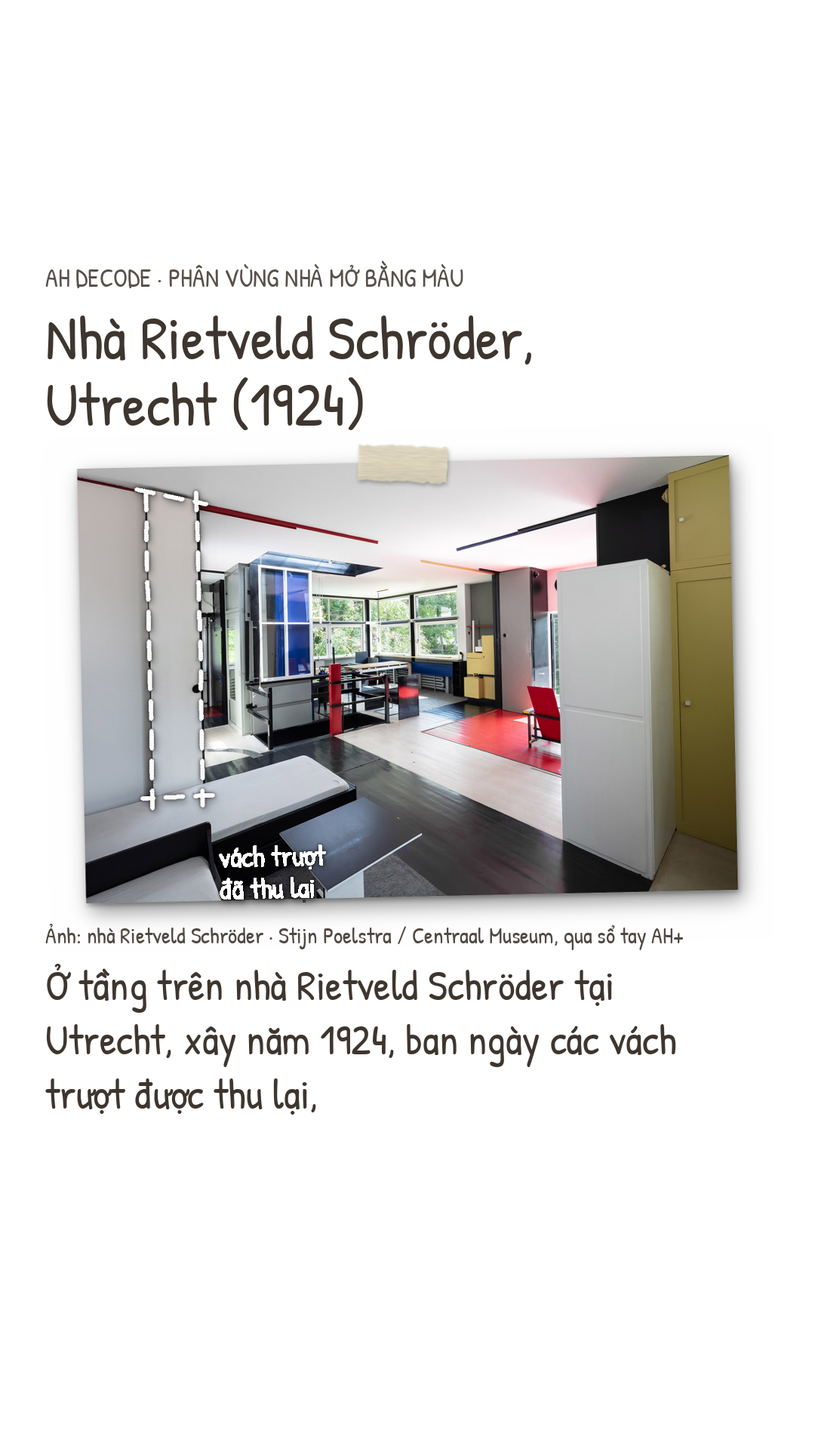
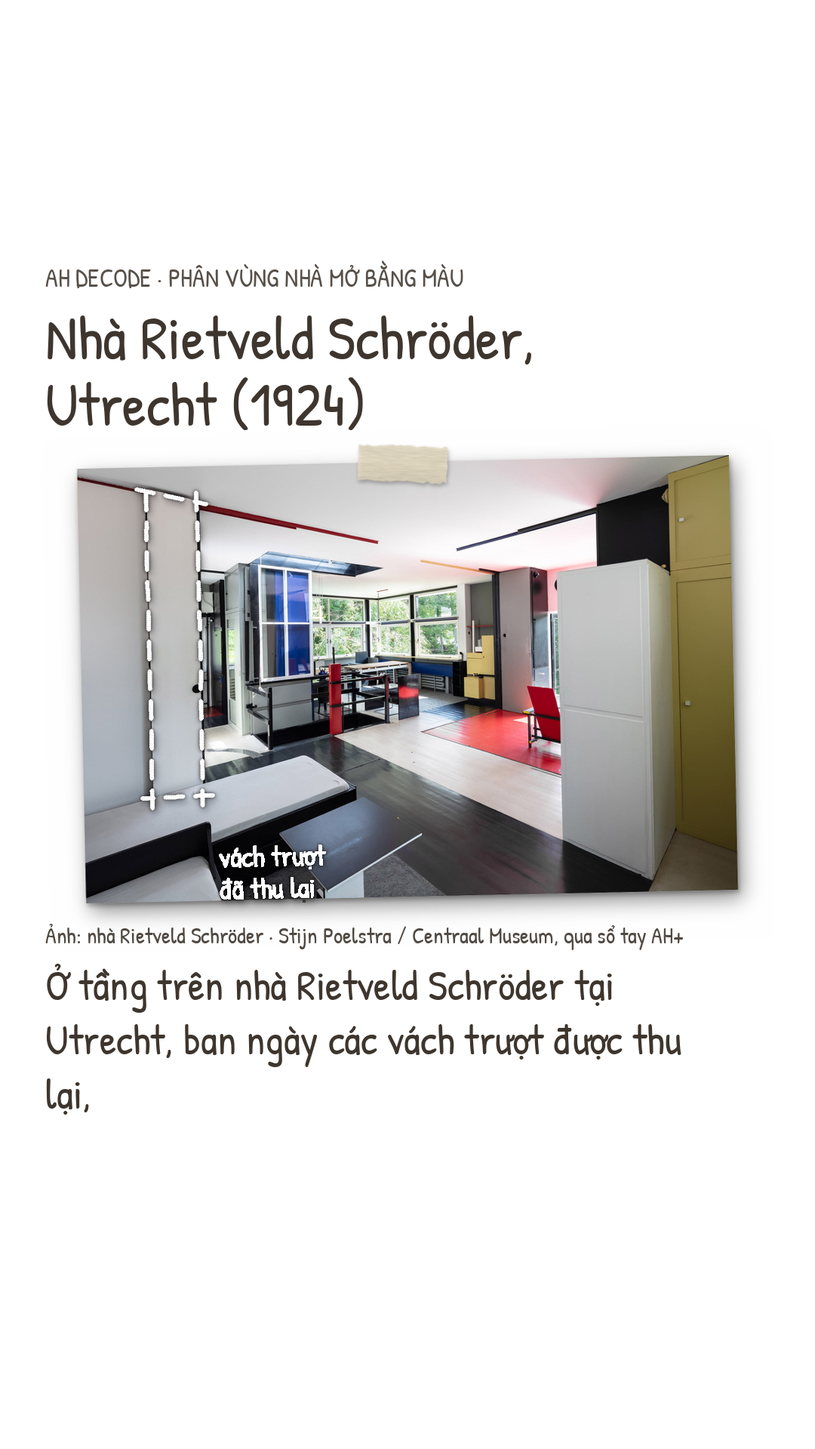
Tập 17: sửa kịch bản theo người chấm lượt 1 (hình/nền trong ví dụ Rietveld, tên Wagemans, bỏ văn dịch, lời khuyên khối tủ)
Claude-Session: https://claude.ai/code/session_019AkacsXwChEpye91U1EGCK

Changed region(s): [[0.0611, 0.6875, 0.3972, 0.7812], [0.5806, 0.6875, 0.825, 0.75], [0.3972, 0.6875, 0.55, 0.75]]

diff --git a/inbox/out/2026-10-30_mau-tren-san-thay-vach/engine_ep17/gen_ep17.py b/inbox/out/2026-10-30_mau-tren-san-thay-vach/engine_ep17/gen_ep17.py
@@ -40,7 +40,7 @@ def STRIP(cx, cy, z=1.0, ay=900):
 
 L_ = STRIP(591, 394, 0.9, 900)      # ảnh ngang 1182x788
 D21 = STRIP(270, 190, 0.86, 905)      # Hình 2.1, 540x380
-D23 = STRIP(270, 235, 0.69, 905)     # Hình 2.3 cắt phần "Nên" (bỏ tiêu đề lớn), 540x470
+D23 = STRIP(270, 208, 0.76, 905)     # Hình 2.3 cắt phần "Nên" (bỏ tiêu đề lớn), 540x470
 # Một câu hỏi trung tâm: nhà bỏ hết vách cho thoáng, sao nhìn lại loang, không rõ đâu là bếp, đâu là chỗ ngồi?
 # Mạch: móc → lý do (2.1: cả nhà chung một nền màu) → hình và nền (Rubin 1915) → điều kiện thành hình (Wagemans 2012) → hệ quả: cả nhà chỉ còn nền
 # (rào một lần: suy luận từ nguyên lý) → Rietveld Schröder: vách thu lại, ranh giới nằm trên sàn; màu mạnh ở mảng nhỏ, mặt lớn làm nền
@@ -48,35 +48,35 @@ D23 = STRIP(270, 235, 0.69, 905)     # Hình 2.3 cắt phần "Nên" (bỏ tiêu
 SC = [
     dict(move="push", part="A", blk=1, img="tren", head="Nhà mở bỏ vách, vì sao dễ lẫn lộn", cam=L_, free=True, dark=False, dd=[],
          vo="Nhà bỏ hết vách cho thoáng, sao nhìn lại lẫn lộn, không rõ đâu là bếp, đâu là chỗ ngồi?"),
-    dict(move="pan_r", part="A", blk=2, img="d21", head="Cả nhà nằm trên một nền màu", cam=D21, free=True, dark=False, dd=[],
-         vo="Lý do thường là cả nhà nằm trên một nền màu, nên mỗi khu chỉ còn được nhận ra nhờ đồ đạc."),
+    dict(move="pan_r", part="A", blk=2, img="d21", head="Cả nhà chung một màu sàn, màu tường", cam=D21, free=True, dark=False, dd=[],
+         vo="Lý do thường là phòng khách, bếp và bàn ăn chung một màu sàn, một màu tường, nên mỗi khu chỉ còn được nhận ra nhờ đồ đạc."),
     dict(move="hold", part="B", blk=2, img="d21", head="Hình và nền theo tâm lý học Gestalt", cam=D21, free=True, dark=False, dd=[],
-         vo="Theo tâm lý học Gestalt, mắt luôn tách một vùng nổi lên làm hình, còn phần còn lại lùi ra sau làm nền.",
-         tts="Theo tâm lý học Ghe-xtan, mắt luôn tách một vùng nổi lên làm hình, còn phần còn lại lùi ra sau làm nền."),
-    dict(move="push", part="C", blk=3, img="d21", head="Theo Wagemans và cộng sự (2012)", cam=D21, free=True, dark=False, dd=[],
-         vo="Một tổng quan năm 2012 cho thấy vùng nào nhỏ hơn, có biên rõ và tương phản với xung quanh thì dễ thành hình,",
-         tts="Một tổng quan năm hai nghìn không trăm mười hai cho thấy vùng nào nhỏ hơn, có biên rõ và tương phản với xung quanh thì dễ thành hình,"),
-    dict(move="hold", part="C", blk=3, img="d21", head="Màu đồng nhất được đọc là nền", cam=D21, free=True, dark=False, dd=[],
-         vo="còn một mảng màu đồng nhất thường được đọc là nền."),
-    dict(move="pull", part="C", blk=3, img="d21", head="Suy luận từ nguyên lý, chưa có thí nghiệm", cam=D21, free=True, dark=False, dd=[],
-         vo="Sổ tay nói rõ, dùng điều này để chia khu trong nhà là suy luận từ nguyên lý, chưa có thí nghiệm nào chứng minh."),
+         vo="Theo tâm lý học Gestalt, mắt tách một vùng nổi lên làm hình, còn phần còn lại lùi ra sau làm nền.",
+         tts="Theo tâm lý học Ghe-xtan, mắt tách một vùng nổi lên làm hình, còn phần còn lại lùi ra sau làm nền."),
+    dict(move="push", part="C", blk=3, img="d21", head="Wagemans và cộng sự (2012)", cam=D21, free=True, dark=False, dd=[],
+         vo="Năm 2012, nhóm của Wagemans rà lại các nghiên cứu cũ và thấy vùng nào nhỏ, có biên rõ và tương phản cao thì dễ thành hình,",
+         tts="Năm hai nghìn không trăm mười hai, nhóm của Va-khơ-man rà lại các nghiên cứu cũ và thấy vùng nào nhỏ, có biên rõ và tương phản cao thì dễ thành hình,"),
+    dict(move="hold", part="C", blk=3, img="d21", head="Dấu hiệu của nền", cam=D21, free=True, dark=False, dd=[],
+         vo="còn màu đồng nhất là dấu hiệu của nền."),
+    dict(move="pull", part="C", blk=3, img="d21", head="Phần áp dụng là suy luận", cam=D21, free=True, dark=False, dd=[],
+         vo="Tụi mình chưa tìm thấy thí nghiệm nào chứng minh mảng màu chia được khu trong nhà, nên phần sau đây là suy ra từ nguyên lý."),
     dict(move="pan_l", part="D", blk=4, img="tren", head="Nhà Rietveld Schröder, Utrecht (1924)", cam=L_, free=True, dark=False, dd=["vach", "lab_vach"],
-         vo="Ở tầng trên nhà Rietveld Schröder tại Utrecht, xây năm 1924, ban ngày các vách trượt được thu lại,",
-         tts="Ở tầng trên nhà Rít-ven Srơ-đơ tại U-tréc, xây năm một nghìn chín trăm hai mươi tư, ban ngày các vách trượt được thu lại,"),
-    dict(move="hold", part="D", blk=4, img="tren", head="Ranh giới nằm lại trên sàn", cam=L_, free=True, dark=False, dd=["sando", "lab_sando", "sanden", "lab_sanden"],
+         vo="Ở tầng trên nhà Rietveld Schröder tại Utrecht, ban ngày các vách trượt được thu lại,",
+         tts="Ở tầng trên nhà Rít-ven Srơ-đơ tại U-tréc, ban ngày các vách trượt được thu lại,"),
+    dict(move="hold", part="D", blk=4, img="tren", head="Vách mở, sàn vẫn chia khu", cam=L_, free=True, dark=False, dd=["sando", "lab_sando", "sanden", "lab_sanden"],
          vo="nhưng sàn vẫn chia thành những mảng đỏ, đen, trắng và xám có biên rõ, nên ranh giới các khu vẫn nằm lại trên sàn."),
-    dict(move="push", part="D", blk=4, img="do", head="Màu mạnh chỉ ở mảng nhỏ", cam=L_, free=True, dark=False, dd=["san", "lab_san", "lam", "lab_lam", "ghe", "lab_ghe"],
-         vo="Màu mạnh chỉ nằm ở mảng nhỏ, như mảng sàn đỏ, khối lam cạnh giường và chiếc ghế đỏ lam,"),
-    dict(move="hold", part="D", blk=4, img="do", head="Tường lớn giữ màu xám", cam=L_, free=True, dark=False, dd=["xam", "lab_xam"],
-         vo="còn bức tường lớn giữ màu xám."),
-    dict(move="pan_d", part="F", blk=5, img="d23", head="Cho khu cần tách thành hình", cam=D23, free=True, dark=False, dd=[],
-         vo="Ở nhà mình, muốn tách khu bếp hay hốc tường sau sofa thì cho khu ấy nhỏ hơn, biên rõ hơn và tương phản hơn nền,"),
+    dict(move="push", part="D", blk=4, img="do", head="Mảng nhỏ nổi thành hình", cam=L_, free=True, dark=False, dd=["san", "lab_san", "ghe", "lab_ghe"],
+         vo="Trong phòng sàn đỏ, màu mạnh chỉ nằm ở những mảng nhỏ như mảng sàn đỏ và chiếc ghế đỏ lam, nên chúng nổi lên thành hình,"),
+    dict(move="hold", part="D", blk=4, img="do", head="Mặt lớn lùi làm nền", cam=L_, free=True, dark=False, dd=["xam", "lab_xam"],
+         vo="còn bức tường lớn màu xám lùi lại làm nền."),
+    dict(move="pan_d", part="F", blk=5, img="d23", head="Khối tủ một màu, biên trùng mép tủ", cam=D23, free=True, dark=False, dd=[],
+         vo="Ở nhà mình, muốn tách khu bếp thì cho khối tủ một mảng màu tương phản với sàn và tường, biên trùng mép tủ,"),
     dict(move="pull", part="F", blk=5, img="tren", head="Màu xuống sàn, lên trần, thay cho vách", cam=L_, free=True, dark=False, dd=["tran", "lab_tran"],
          vo="và có thể đặt màu xuống sàn hay lên trần thay cho vách."),
     dict(move="push", part="H", blk=6, img="bep", head="Có hình thì hết lẫn lộn", cam=L_, free=True, dark=False, dd=[],
          vo="Vậy nhà mở lẫn lộn không phải vì thiếu vách, mà vì cả nhà chỉ có nền, chưa có khu nào thành hình."),
     dict(move="hold", part="I", blk=6, img="ebook", head="end", cam="END", dark=False, vo="", dd=[],
-         say="Các bước phân vùng nhà mở bằng màu có trong sổ tay Công thức chọn màu kiến trúc nội thất, mọi người xem ở phần bình luận nha."),
+         say="Các bước chia khu nhà mở bằng màu có trong sổ tay Công thức chọn màu kiến trúc nội thất, mọi người xem ở phần bình luận nha."),
 ]
 
 DOODLE = r'''
@@ -233,7 +233,7 @@ def build(src, dst, video, data, img, tag):
            ("    return top < TOP_END, bot > cr_y - 20, warn", "    return top < TOP_END and bool(sc[\"head\"]), bot > cr_y - 20 and bool(sc[\"vo\"]), warn"),
            # khung cuối: chữ khớp lời mời (mẫu tập 7)
            ('(1196, "Bài viết phân tích đầy đủ", 58, 240),\n    (1260, "xem ở dòng đầu tiên", 58, 240),\n    (1348, "trong phần bình luận", 66, 255),',
-            '(1252, "Sổ tay Công thức chọn màu nội thất", 54, 240),\n    (1314, "các bước phân vùng nhà mở bằng màu", 48, 240),\n    (1398, "xem ở phần bình luận", 66, 255),')]
+            '(1252, "Sổ tay Công thức chọn màu nội thất", 54, 240),\n    (1314, "các bước chia khu nhà mở bằng màu", 48, 240),\n    (1398, "xem ở phần bình luận", 66, 255),')]
     for a_, b_ in rep:
         assert a_ in s, a_
         s = s.replace(a_, b_)
@@ -283,7 +283,7 @@ print("runs", [(r["tag"], r["scenes"]) for r in RUNS])
 print("tổng engine", T[-1], "giây; từ lời đọc", nw, "; ước tính giọng đọc ~", round(nw / 3.4 + 5 * 1.0, 1), "giây")
 for k, x in enumerate(SC):
     print(k + 1, x["blk"], x["part"], x["t"], words(shown[k]), x["head"])
-FOREIGN = ["Rietveld", "Schröder", "Utrecht", "Edgar", "Rubin", "Wagemans", "Gestalt", "Checklist", "checklist", "Stijl", "Foster", "Barragán", "Gilardi", "Casa", "Luis", "Mexico", "Munsell", "Oberfeld", "Hecht", "Itten", "Johannes", "Castell", "von", "Pawson", "John", "London", "AH", "Decode", "Bauhaus", "LRV", "cm"]
+FOREIGN = ["sofa", "Rietveld", "Schröder", "Utrecht", "Edgar", "Rubin", "Wagemans", "Gestalt", "Checklist", "checklist", "Stijl", "Foster", "Barragán", "Gilardi", "Casa", "Luis", "Mexico", "Munsell", "Oberfeld", "Hecht", "Itten", "Johannes", "Castell", "von", "Pawson", "John", "London", "AH", "Decode", "Bauhaus", "LRV", "cm"]
 bad = re.findall(r"\d", " ".join(spoken)) + [w for w in FOREIGN if re.search(r"\b" + w + r"\b", " ".join(spoken))]
 print("chữ số / tên nước ngoài chưa phiên âm trong bản đọc:", bad)
 json.dump([dict(blk=x["blk"], t=x["t"], head=x["head"], loi=shown[k], tts=spoken[k], part=x["part"]) for k, x in enumerate(SC)],

diff --git a/inbox/out/2026-10-30_mau-tren-san-thay-vach/engine_ep17/engine_ep17_r02_d21.py b/inbox/out/2026-10-30_mau-tren-san-thay-vach/engine_ep17/engine_ep17_r02_d21.py
@@ -30,7 +30,7 @@ END_LINES = [
     (1124, "AH Decode · series phân tích nguyên tắc thiết kế", 40, 215),
     (1170, "và cách chọn đồ decor", 40, 215),
     (1252, "Sổ tay Công thức chọn màu nội thất", 54, 240),
-    (1314, "các bước phân vùng nhà mở bằng màu", 48, 240),
+    (1314, "các bước chia khu nhà mở bằng màu", 48, 240),
     (1398, "xem ở phần bình luận", 66, 255),
 ]
 INK = (46, 38, 32)
@@ -553,17 +553,17 @@ WIDE = WIDE_SAFE
 SCENES = [
     dict(t="0–6.95s", head="Nhà mở bỏ vách, vì sao dễ lẫn lộn", vo="Nhà bỏ hết vách cho thoáng, sao nhìn lại lẫn lộn, không rõ đâu là bếp, đâu là chỗ ngồi?",
          cam=((270, 190), 0.86, (540, 905)), dark=False, dd=[], move="hold"),
-    dict(t="6.95–14.53s", head="Cả nhà nằm trên một nền màu", vo="Lý do thường là cả nhà nằm trên một nền màu, nên mỗi khu chỉ còn được nhận ra nhờ đồ đạc.",
+    dict(t="6.95–16.4s", head="Cả nhà chung một màu sàn, màu tường", vo="Lý do thường là phòng khách, bếp và bàn ăn chung một màu sàn, một màu tường, nên mỗi khu chỉ còn được nhận ra nhờ đồ đạc.",
          cam=((270, 190), 0.86, (540, 905)), dark=False, dd=[], move="pan_r"),
-    dict(t="14.53–22.42s", head="Hình và nền theo tâm lý học Gestalt", vo="Theo tâm lý học Gestalt, mắt luôn tách một vùng nổi lên làm hình, còn phần còn lại lùi ra sau làm nền.",
+    dict(t="16.4–23.97s", head="Hình và nền theo tâm lý học Gestalt", vo="Theo tâm lý học Gestalt, mắt tách một vùng nổi lên làm hình, còn phần còn lại lùi ra sau làm nền.",
          cam=((270, 190), 0.86, (540, 905)), dark=False, dd=[], move="hold"),
-    dict(t="22.42–30.62s", head="Theo Wagemans và cộng sự (2012)", vo="Một tổng quan năm 2012 cho thấy vùng nào nhỏ hơn, có biên rõ và tương phản với xung quanh thì dễ thành hình,",
+    dict(t="23.97–33.11s", head="Wagemans và cộng sự (2012)", vo="Năm 2012, nhóm của Wagemans rà lại các nghiên cứu cũ và thấy vùng nào nhỏ, có biên rõ và tương phản cao thì dễ thành hình,",
          cam=((270, 190), 0.86, (540, 905)), dark=False, dd=[], move="push"),
-    dict(t="30.62–34.76s", head="Màu đồng nhất được đọc là nền", vo="còn một mảng màu đồng nhất thường được đọc là nền.",
+    dict(t="33.11–36.62s", head="Dấu hiệu của nền", vo="còn màu đồng nhất là dấu hiệu của nền.",
          cam=((270, 190), 0.86, (540, 905)), dark=False, dd=[], move="hold"),
-    dict(t="34.76–43.27s", head="Suy luận từ nguyên lý, chưa có thí nghiệm", vo="Sổ tay nói rõ, dùng điều này để chia khu trong nhà là suy luận từ nguyên lý, chưa có thí nghiệm nào chứng minh.",
+    dict(t="36.62–45.76s", head="Phần áp dụng là suy luận", vo="Tụi mình chưa tìm thấy thí nghiệm nào chứng minh mảng màu chia được khu trong nhà, nên phần sau đây là suy ra từ nguyên lý.",
          cam=((270, 190), 0.86, (540, 905)), dark=False, dd=[], move="pull"),
-    dict(t="43.27–43.77s", head="end", vo="",
+    dict(t="45.76–46.26s", head="end", vo="",
          cam=END_SAFE, dark=False, dd=[], move="hold"),
 ]
 END = len(SCENES) - 1

diff --git a/inbox/out/2026-10-30_mau-tren-san-thay-vach/engine_ep17/engine_video_ep17_r02_d21.py b/inbox/out/2026-10-30_mau-tren-san-thay-vach/engine_ep17/engine_video_ep17_r02_d21.py
@@ -30,7 +30,7 @@ END_LINES = [
     (1124, "AH Decode · series phân tích nguyên tắc thiết kế", 40, 215),
     (1170, "và cách chọn đồ decor", 40, 215),
     (1252, "Sổ tay Công thức chọn màu nội thất", 54, 240),
-    (1314, "các bước phân vùng nhà mở bằng màu", 48, 240),
+    (1314, "các bước chia khu nhà mở bằng màu", 48, 240),
     (1398, "xem ở phần bình luận", 66, 255),
 ]
 INK = (46, 38, 32)
@@ -554,17 +554,17 @@ WIDE = WIDE_SAFE
 SCENES = [
     dict(t="0–6.95s", head="Nhà mở bỏ vách, vì sao dễ lẫn lộn", vo="Nhà bỏ hết vách cho thoáng, sao nhìn lại lẫn lộn, không rõ đâu là bếp, đâu là chỗ ngồi?",
          cam=((270, 190), 0.86, (540, 905)), dark=False, dd=[], move="hold"),
-    dict(t="6.95–14.53s", head="Cả nhà nằm trên một nền màu", vo="Lý do thường là cả nhà nằm trên một nền màu, nên mỗi khu chỉ còn được nhận ra nhờ đồ đạc.",
+    dict(t="6.95–16.4s", head="Cả nhà chung một màu sàn, màu tường", vo="Lý do thường là phòng khách, bếp và bàn ăn chung một màu sàn, một màu tường, nên mỗi khu chỉ còn được nhận ra nhờ đồ đạc.",
          cam=((270, 190), 0.86, (540, 905)), dark=False, dd=[], move="pan_r"),
-    dict(t="14.53–22.42s", head="Hình và nền theo tâm lý học Gestalt", vo="Theo tâm lý học Gestalt, mắt luôn tách một vùng nổi lên làm hình, còn phần còn lại lùi ra sau làm nền.",
+    dict(t="16.4–23.97s", head="Hình và nền theo tâm lý học Gestalt", vo="Theo tâm lý học Gestalt, mắt tách một vùng nổi lên làm hình, còn phần còn lại lùi ra sau làm nền.",
          cam=((270, 190), 0.86, (540, 905)), dark=False, dd=[], move="hold"),
-    dict(t="22.42–30.62s", head="Theo Wagemans và cộng sự (2012)", vo="Một tổng quan năm 2012 cho thấy vùng nào nhỏ hơn, có biên rõ và tương phản với xung quanh thì dễ thành hình,",
+    dict(t="23.97–33.11s", head="Wagemans và cộng sự (2012)", vo="Năm 2012, nhóm của Wagemans rà lại các nghiên cứu cũ và thấy vùng nào nhỏ, có biên rõ và tương phản cao thì dễ thành hình,",
          cam=((270, 190), 0.86, (540, 905)), dark=False, dd=[], move="push"),
-    dict(t="30.62–34.76s", head="Màu đồng nhất được đọc là nền", vo="còn một mảng màu đồng nhất thường được đọc là nền.",
+    dict(t="33.11–36.62s", head="Dấu hiệu của nền", vo="còn màu đồng nhất là dấu hiệu của nền.",
          cam=((270, 190), 0.86, (540, 905)), dark=False, dd=[], move="hold"),
-    dict(t="34.76–43.27s", head="Suy luận từ nguyên lý, chưa có thí nghiệm", vo="Sổ tay nói rõ, dùng điều này để chia khu trong nhà là suy luận từ nguyên lý, chưa có thí nghiệm nào chứng minh.",
+    dict(t="36.62–45.76s", head="Phần áp dụng là suy luận", vo="Tụi mình chưa tìm thấy thí nghiệm nào chứng minh mảng màu chia được khu trong nhà, nên phần sau đây là suy ra từ nguyên lý.",
          cam=((270, 190), 0.86, (540, 905)), dark=False, dd=[], move="pull"),
-    dict(t="43.27–43.77s", head="end", vo="",
+    dict(t="45.76–46.26s", head="end", vo="",
          cam=END_SAFE, dark=False, dd=[], move="hold"),
 ]
 END = len(SCENES) - 1

diff --git a/inbox/out/2026-10-30_mau-tren-san-thay-vach/engine_ep17/engine_ep17_r03_tren.py b/inbox/out/2026-10-30_mau-tren-san-thay-vach/engine_ep17/engine_ep17_r03_tren.py
@@ -30,7 +30,7 @@ END_LINES = [
     (1124, "AH Decode · series phân tích nguyên tắc thiết kế", 40, 215),
     (1170, "và cách chọn đồ decor", 40, 215),
     (1252, "Sổ tay Công thức chọn màu nội thất", 54, 240),
-    (1314, "các bước phân vùng nhà mở bằng màu", 48, 240),
+    (1314, "các bước chia khu nhà mở bằng màu", 48, 240),
     (1398, "xem ở phần bình luận", 66, 255),
 ]
 INK = (46, 38, 32)
@@ -551,13 +551,13 @@ OBJ = {}
 
 WIDE = WIDE_SAFE
 SCENES = [
-    dict(t="0–8.51s", head="Suy luận từ nguyên lý, chưa có thí nghiệm", vo="Sổ tay nói rõ, dùng điều này để chia khu trong nhà là suy luận từ nguyên lý, chưa có thí nghiệm nào chứng minh.",
+    dict(t="0–9.14s", head="Phần áp dụng là suy luận", vo="Tụi mình chưa tìm thấy thí nghiệm nào chứng minh mảng màu chia được khu trong nhà, nên phần sau đây là suy ra từ nguyên lý.",
          cam=((591, 394), 0.9, (540, 900)), dark=False, dd=[], move="hold"),
-    dict(t="8.51–15.15s", head="Nhà Rietveld Schröder, Utrecht (1924)", vo="Ở tầng trên nhà Rietveld Schröder tại Utrecht, xây năm 1924, ban ngày các vách trượt được thu lại,",
+    dict(t="9.14–14.84s", head="Nhà Rietveld Schröder, Utrecht (1924)", vo="Ở tầng trên nhà Rietveld Schröder tại Utrecht, ban ngày các vách trượt được thu lại,",
          cam=((591, 394), 0.9, (540, 900)), dark=False, dd=['vach', 'lab_vach'], move="pan_l"),
-    dict(t="15.15–23.66s", head="Ranh giới nằm lại trên sàn", vo="nhưng sàn vẫn chia thành những mảng đỏ, đen, trắng và xám có biên rõ, nên ranh giới các khu vẫn nằm lại trên sàn.",
+    dict(t="14.84–23.35s", head="Vách mở, sàn vẫn chia khu", vo="nhưng sàn vẫn chia thành những mảng đỏ, đen, trắng và xám có biên rõ, nên ranh giới các khu vẫn nằm lại trên sàn.",
          cam=((591, 394), 0.9, (540, 900)), dark=False, dd=['sando', 'lab_sando', 'sanden', 'lab_sanden'], move="hold"),
-    dict(t="23.66–24.16s", head="end", vo="",
+    dict(t="23.35–23.85s", head="end", vo="",
          cam=END_SAFE, dark=False, dd=[], move="hold"),
 ]
 END = len(SCENES) - 1

diff --git a/inbox/out/2026-10-30_mau-tren-san-thay-vach/engine_ep17/engine_video_ep17_r03_tren.py b/inbox/out/2026-10-30_mau-tren-san-thay-vach/engine_ep17/engine_video_ep17_r03_tren.py
@@ -30,7 +30,7 @@ END_LINES = [
     (1124, "AH Decode · series phân tích nguyên tắc thiết kế", 40, 215),
     (1170, "và cách chọn đồ decor", 40, 215),
     (1252, "Sổ tay Công thức chọn màu nội thất", 54, 240),
-    (1314, "các bước phân vùng nhà mở bằng màu", 48, 240),
+    (1314, "các bước chia khu nhà mở bằng màu", 48, 240),
     (1398, "xem ở phần bình luận", 66, 255),
 ]
 INK = (46, 38, 32)
@@ -552,13 +552,13 @@ OBJ = {}
 
 WIDE = WIDE_SAFE
 SCENES = [
-    dict(t="0–8.51s", head="Suy luận từ nguyên lý, chưa có thí nghiệm", vo="Sổ tay nói rõ, dùng điều này để chia khu trong nhà là suy luận từ nguyên lý, chưa có thí nghiệm nào chứng minh.",
+    dict(t="0–9.14s", head="Phần áp dụng là suy luận", vo="Tụi mình chưa tìm thấy thí nghiệm nào chứng minh mảng màu chia được khu trong nhà, nên phần sau đây là suy ra từ nguyên lý.",
          cam=((591, 394), 0.9, (540, 900)), dark=False, dd=[], move="hold"),
-    dict(t="8.51–15.15s", head="Nhà Rietveld Schröder, Utrecht (1924)", vo="Ở tầng trên nhà Rietveld Schröder tại Utrecht, xây năm 1924, ban ngày các vách trượt được thu lại,",
+    dict(t="9.14–14.84s", head="Nhà Rietveld Schröder, Utrecht (1924)", vo="Ở tầng trên nhà Rietveld Schröder tại Utrecht, ban ngày các vách trượt được thu lại,",
          cam=((591, 394), 0.9, (540, 900)), dark=False, dd=['vach', 'lab_vach'], move="pan_l"),
-    dict(t="15.15–23.66s", head="Ranh giới nằm lại trên sàn", vo="nhưng sàn vẫn chia thành những mảng đỏ, đen, trắng và xám có biên rõ, nên ranh giới các khu vẫn nằm lại trên sàn.",
+    dict(t="14.84–23.35s", head="Vách mở, sàn vẫn chia khu", vo="nhưng sàn vẫn chia thành những mảng đỏ, đen, trắng và xám có biên rõ, nên ranh giới các khu vẫn nằm lại trên sàn.",
          cam=((591, 394), 0.9, (540, 900)), dark=False, dd=['sando', 'lab_sando', 'sanden', 'lab_sanden'], move="hold"),
-    dict(t="23.66–24.16s", head="end", vo="",
+    dict(t="23.35–23.85s", head="end", vo="",
          cam=END_SAFE, dark=False, dd=[], move="hold"),
 ]
 END = len(SCENES) - 1

diff --git a/inbox/out/2026-10-30_mau-tren-san-thay-vach/engine_ep17/engine_ep17_r04_do.py b/inbox/out/2026-10-30_mau-tren-san-thay-vach/engine_ep17/engine_ep17_r04_do.py
@@ -30,7 +30,7 @@ END_LINES = [
     (1124, "AH Decode · series phân tích nguyên tắc thiết kế", 40, 215),
     (1170, "và cách chọn đồ decor", 40, 215),
     (1252, "Sổ tay Công thức chọn màu nội thất", 54, 240),
-    (1314, "các bước phân vùng nhà mở bằng màu", 48, 240),
+    (1314, "các bước chia khu nhà mở bằng màu", 48, 240),
     (1398, "xem ở phần bình luận", 66, 255),
 ]
 INK = (46, 38, 32)
@@ -551,13 +551,13 @@ OBJ = {}
 
 WIDE = WIDE_SAFE
 SCENES = [
-    dict(t="0–8.51s", head="Ranh giới nằm lại trên sàn", vo="nhưng sàn vẫn chia thành những mảng đỏ, đen, trắng và xám có biên rõ, nên ranh giới các khu vẫn nằm lại trên sàn.",
+    dict(t="0–8.51s", head="Vách mở, sàn vẫn chia khu", vo="nhưng sàn vẫn chia thành những mảng đỏ, đen, trắng và xám có biên rõ, nên ranh giới các khu vẫn nằm lại trên sàn.",
          cam=((591, 394), 0.9, (540, 900)), dark=False, dd=[], move="hold"),
-    dict(t="8.51–15.46s", head="Màu mạnh chỉ ở mảng nhỏ", vo="Màu mạnh chỉ nằm ở mảng nhỏ, như mảng sàn đỏ, khối lam cạnh giường và chiếc ghế đỏ lam,",
-         cam=((591, 394), 0.9, (540, 900)), dark=False, dd=['san', 'lab_san', 'lam', 'lab_lam', 'ghe', 'lab_ghe'], move="push"),
-    dict(t="15.46–18.96s", head="Tường lớn giữ màu xám", vo="còn bức tường lớn giữ màu xám.",
+    dict(t="8.51–17.65s", head="Mảng nhỏ nổi thành hình", vo="Trong phòng sàn đỏ, màu mạnh chỉ nằm ở những mảng nhỏ như mảng sàn đỏ và chiếc ghế đỏ lam, nên chúng nổi lên thành hình,",
+         cam=((591, 394), 0.9, (540, 900)), dark=False, dd=['san', 'lab_san', 'ghe', 'lab_ghe'], move="push"),
+    dict(t="17.65–21.48s", head="Mặt lớn lùi làm nền", vo="còn bức tường lớn màu xám lùi lại làm nền.",
          cam=((591, 394), 0.9, (540, 900)), dark=False, dd=['xam', 'lab_xam'], move="hold"),
-    dict(t="18.96–19.46s", head="end", vo="",
+    dict(t="21.48–21.98s", head="end", vo="",
          cam=END_SAFE, dark=False, dd=[], move="hold"),
 ]
 END = len(SCENES) - 1

diff --git a/inbox/out/2026-10-30_mau-tren-san-thay-vach/engine_ep17/engine_video_ep17_r04_do.py b/inbox/out/2026-10-30_mau-tren-san-thay-vach/engine_ep17/engine_video_ep17_r04_do.py
@@ -30,7 +30,7 @@ END_LINES = [
     (1124, "AH Decode · series phân tích nguyên tắc thiết kế", 40, 215),
     (1170, "và cách chọn đồ decor", 40, 215),
     (1252, "Sổ tay Công thức chọn màu nội thất", 54, 240),
-    (1314, "các bước phân vùng nhà mở bằng màu", 48, 240),
+    (1314, "các bước chia khu nhà mở bằng màu", 48, 240),
     (1398, "xem ở phần bình luận", 66, 255),
 ]
 INK = (46, 38, 32)
@@ -552,13 +552,13 @@ OBJ = {}
 
 WIDE = WIDE_SAFE
 SCENES = [
-    dict(t="0–8.51s", head="Ranh giới nằm lại trên sàn", vo="nhưng sàn vẫn chia thành những mảng đỏ, đen, trắng và xám có biên rõ, nên ranh giới các khu vẫn nằm lại trên sàn.",
+    dict(t="0–8.51s", head="Vách mở, sàn vẫn chia khu", vo="nhưng sàn vẫn chia thành những mảng đỏ, đen, trắng và xám có biên rõ, nên ranh giới các khu vẫn nằm lại trên sàn.",
          cam=((591, 394), 0.9, (540, 900)), dark=False, dd=[], move="hold"),
-    dict(t="8.51–15.46s", head="Màu mạnh chỉ ở mảng nhỏ", vo="Màu mạnh chỉ nằm ở mảng nhỏ, như mảng sàn đỏ, khối lam cạnh giường và chiếc ghế đỏ lam,",
-         cam=((591, 394), 0.9, (540, 900)), dark=False, dd=['san', 'lab_san', 'lam', 'lab_lam', 'ghe', 'lab_ghe'], move="push"),
-    dict(t="15.46–18.96s", head="Tường lớn giữ màu xám", vo="còn bức tường lớn giữ màu xám.",
+    dict(t="8.51–17.65s", head="Mảng nhỏ nổi thành hình", vo="Trong phòng sàn đỏ, màu mạnh chỉ nằm ở những mảng nhỏ như mảng sàn đỏ và chiếc ghế đỏ lam, nên chúng nổi lên thành hình,",
+         cam=((591, 394), 0.9, (540, 900)), dark=False, dd=['san', 'lab_san', 'ghe', 'lab_ghe'], move="push"),
+    dict(t="17.65–21.48s", head="Mặt lớn lùi làm nền", vo="còn bức tường lớn màu xám lùi lại làm nền.",
          cam=((591, 394), 0.9, (540, 900)), dark=False, dd=['xam', 'lab_xam'], move="hold"),
-    dict(t="18.96–19.46s", head="end", vo="",
+    dict(t="21.48–21.98s", head="end", vo="",
          cam=END_SAFE, dark=False, dd=[], move="hold"),
 ]
 END = len(SCENES) - 1

diff --git a/inbox/out/2026-10-30_mau-tren-san-thay-vach/engine_ep17/engine_ep17_r05_d23.py b/inbox/out/2026-10-30_mau-tren-san-thay-vach/engine_ep17/engine_ep17_r05_d23.py
@@ -30,7 +30,7 @@ END_LINES = [
     (1124, "AH Decode · series phân tích nguyên tắc thiết kế", 40, 215),
     (1170, "và cách chọn đồ decor", 40, 215),
     (1252, "Sổ tay Công thức chọn màu nội thất", 54, 240),
-    (1314, "các bước phân vùng nhà mở bằng màu", 48, 240),
+    (1314, "các bước chia khu nhà mở bằng màu", 48, 240),
     (1398, "xem ở phần bình luận", 66, 255),
 ]
 INK = (46, 38, 32)
@@ -551,11 +551,11 @@ OBJ = {}
 
 WIDE = WIDE_SAFE
 SCENES = [
-    dict(t="0–3.5s", head="Tường lớn giữ màu xám", vo="còn bức tường lớn giữ màu xám.",
-         cam=((270, 235), 0.69, (540, 905)), dark=False, dd=[], move="hold"),
-    dict(t="3.5–12.33s", head="Cho khu cần tách thành hình", vo="Ở nhà mình, muốn tách khu bếp hay hốc tường sau sofa thì cho khu ấy nhỏ hơn, biên rõ hơn và tương phản hơn nền,",
-         cam=((270, 235), 0.69, (540, 905)), dark=False, dd=[], move="pan_d"),
-    dict(t="12.33–12.83s", head="end", vo="",
+    dict(t="0–3.83s", head="Mặt lớn lùi làm nền", vo="còn bức tường lớn màu xám lùi lại làm nền.",
+         cam=((270, 208), 0.76, (540, 905)), dark=False, dd=[], move="hold"),
+    dict(t="3.83–12.03s", head="Khối tủ một màu, biên trùng mép tủ", vo="Ở nhà mình, muốn tách khu bếp thì cho khối tủ một mảng màu tương phản với sàn và tường, biên trùng mép tủ,",
+         cam=((270, 208), 0.76, (540, 905)), dark=False, dd=[], move="pan_d"),
+    dict(t="12.03–12.53s", head="end", vo="",
          cam=END_SAFE, dark=False, dd=[], move="hold"),
 ]
 END = len(SCENES) - 1

diff --git a/inbox/out/2026-10-30_mau-tren-san-thay-vach/engine_ep17/engine_video_ep17_r05_d23.py b/inbox/out/2026-10-30_mau-tren-san-thay-vach/engine_ep17/engine_video_ep17_r05_d23.py
@@ -30,7 +30,7 @@ END_LINES = [
     (1124, "AH Decode · series phân tích nguyên tắc thiết kế", 40, 215),
     (1170, "và cách chọn đồ decor", 40, 215),
     (1252, "Sổ tay Công thức chọn màu nội thất", 54, 240),
-    (1314, "các bước phân vùng nhà mở bằng màu", 48, 240),
+    (1314, "các bước chia khu nhà mở bằng màu", 48, 240),
     (1398, "xem ở phần bình luận", 66, 255),
 ]
 INK = (46, 38, 32)
@@ -552,11 +552,11 @@ OBJ = {}
 
 WIDE = WIDE_SAFE
 SCENES = [
-    dict(t="0–3.5s", head="Tường lớn giữ màu xám", vo="còn bức tường lớn giữ màu xám.",
-         cam=((270, 235), 0.69, (540, 905)), dark=False, dd=[], move="hold"),
-    dict(t="3.5–12.33s", head="Cho khu cần tách thành hình", vo="Ở nhà mình, muốn tách khu bếp hay hốc tường sau sofa thì cho khu ấy nhỏ hơn, biên rõ hơn và tương phản hơn nền,",
-         cam=((270, 235), 0.69, (540, 905)), dark=False, dd=[], move="pan_d"),
-    dict(t="12.33–12.83s", head="end", vo="",
+    dict(t="0–3.83s", head="Mặt lớn lùi làm nền", vo="còn bức tường lớn màu xám lùi lại làm nền.",
+         cam=((270, 208), 0.76, (540, 905)), dark=False, dd=[], move="hold"),
+    dict(t="3.83–12.03s", head="Khối tủ một màu, biên trùng mép tủ", vo="Ở nhà mình, muốn tách khu bếp thì cho khối tủ một mảng màu tương phản với sàn và tường, biên trùng mép tủ,",
+         cam=((270, 208), 0.76, (540, 905)), dark=False, dd=[], move="pan_d"),
+    dict(t="12.03–12.53s", head="end", vo="",
          cam=END_SAFE, dark=False, dd=[], move="hold"),
 ]
 END = len(SCENES) - 1

diff --git a/inbox/out/2026-10-30_mau-tren-san-thay-vach/engine_ep17/engine_ep17_r06_tren.py b/inbox/out/2026-10-30_mau-tren-san-thay-vach/engine_ep17/engine_ep17_r06_tren.py
@@ -30,7 +30,7 @@ END_LINES = [
     (1124, "AH Decode · series phân tích nguyên tắc thiết kế", 40, 215),
     (1170, "và cách chọn đồ decor", 40, 215),
     (1252, "Sổ tay Công thức chọn màu nội thất", 54, 240),
-    (1314, "các bước phân vùng nhà mở bằng màu", 48, 240),
+    (1314, "các bước chia khu nhà mở bằng màu", 48, 240),
     (1398, "xem ở phần bình luận", 66, 255),
 ]
 INK = (46, 38, 32)
@@ -551,11 +551,11 @@ OBJ = {}
 
 WIDE = WIDE_SAFE
 SCENES = [
-    dict(t="0–8.83s", head="Cho khu cần tách thành hình", vo="Ở nhà mình, muốn tách khu bếp hay hốc tường sau sofa thì cho khu ấy nhỏ hơn, biên rõ hơn và tương phản hơn nền,",
+    dict(t="0–8.2s", head="Khối tủ một màu, biên trùng mép tủ", vo="Ở nhà mình, muốn tách khu bếp thì cho khối tủ một mảng màu tương phản với sàn và tường, biên trùng mép tủ,",
          cam=((591, 394), 0.9, (540, 900)), dark=False, dd=[], move="hold"),
-    dict(t="8.83–13.59s", head="Màu xuống sàn, lên trần, thay cho vách", vo="và có thể đặt màu xuống sàn hay lên trần thay cho vách.",
+    dict(t="8.2–12.96s", head="Màu xuống sàn, lên trần, thay cho vách", vo="và có thể đặt màu xuống sàn hay lên trần thay cho vách.",
          cam=((591, 394), 0.9, (540, 900)), dark=False, dd=['tran', 'lab_tran'], move="pull"),
-    dict(t="13.59–14.09s", head="end", vo="",
+    dict(t="12.96–13.46s", head="end", vo="",
          cam=END_SAFE, dark=False, dd=[], move="hold"),
 ]
 END = len(SCENES) - 1

diff --git a/inbox/out/2026-10-30_mau-tren-san-thay-vach/engine_ep17/engine_video_ep17_r06_tren.py b/inbox/out/2026-10-30_mau-tren-san-thay-vach/engine_ep17/engine_video_ep17_r06_tren.py
@@ -30,7 +30,7 @@ END_LINES = [
     (1124, "AH Decode · series phân tích nguyên tắc thiết kế", 40, 215),
     (1170, "và cách chọn đồ decor", 40, 215),
     (1252, "Sổ tay Công thức chọn màu nội thất", 54, 240),
-    (1314, "các bước phân vùng nhà mở bằng màu", 48, 240),
+    (1314, "các bước chia khu nhà mở bằng màu", 48, 240),
     (1398, "xem ở phần bình luận", 66, 255),
 ]
 INK = (46, 38, 32)
@@ -552,11 +552,11 @@ OBJ = {}
 
 WIDE = WIDE_SAFE
 SCENES = [
-    dict(t="0–8.83s", head="Cho khu cần tách thành hình", vo="Ở nhà mình, muốn tách khu bếp hay hốc tường sau sofa thì cho khu ấy nhỏ hơn, biên rõ hơn và tương phản hơn nền,",
+    dict(t="0–8.2s", head="Khối tủ một màu, biên trùng mép tủ", vo="Ở nhà mình, muốn tách khu bếp thì cho khối tủ một mảng màu tương phản với sàn và tường, biên trùng mép tủ,",
          cam=((591, 394), 0.9, (540, 900)), dark=False, dd=[], move="hold"),
-    dict(t="8.83–13.59s", head="Màu xuống sàn, lên trần, thay cho vách", vo="và có thể đặt màu xuống sàn hay lên trần thay cho vách.",
+    dict(t="8.2–12.96s", head="Màu xuống sàn, lên trần, thay cho vách", vo="và có thể đặt màu xuống sàn hay lên trần thay cho vách.",
          cam=((591, 394), 0.9, (540, 900)), dark=False, dd=['tran', 'lab_tran'], move="pull"),
-    dict(t="13.59–14.09s", head="end", vo="",
+    dict(t="12.96–13.46s", head="end", vo="",
          cam=END_SAFE, dark=False, dd=[], move="hold"),
 ]
 END = len(SCENES) - 1

diff --git a/inbox/out/2026-10-30_mau-tren-san-thay-vach/engine_ep17/end_ep17.py b/inbox/out/2026-10-30_mau-tren-san-thay-vach/engine_ep17/end_ep17.py
@@ -17,12 +17,12 @@ W, H = 1080, 1920
 # bố cục theo nguồn: video 1080x1350 (mặc định) hoặc ảnh tĩnh/GIF 800x1000
 S, OX, OY = 1.0, 0, -285            # X = S*x - OX, Y = S*y - OY
 IPAD = [(210, 560), (630, 375), (1052, 780), (600, 1030)]   # bốn góc iPad trên video
-LINES = [(380, "Các bước phân vùng nhà mở bằng màu", 50, 255),
+LINES = [(380, "Các bước chia khu nhà mở bằng màu", 50, 255),
          (440, "trong sổ tay Công thức chọn màu kiến trúc nội thất", 40, 240),
          (512, "mọi người xem ở phần bình luận nha", 58, 255)]
 CREDIT = (1440, "Video: sổ tay AH+ Công thức chọn màu nội thất · Giả Thuyết Kiến Trúc", 28, 215)
 STILL = dict(S=1.55, OX=185, OY=-72, IPAD=[(155, 405), (480, 275), (780, 580), (430, 768)],
-             LINES=[(1280, "Sổ tay Công thức chọn màu nội thất", 54, 255), (1340, "các bước phân vùng nhà mở bằng màu", 46, 240),
+             LINES=[(1280, "Sổ tay Công thức chọn màu nội thất", 54, 255), (1340, "các bước chia khu nhà mở bằng màu", 46, 240),
                     (1400, "xem ở phần bình luận", 62, 255)],
              CREDIT=(352, "Ảnh: sổ tay AH+ Công thức chọn màu nội thất · Giả Thuyết Kiến Trúc", 28, 225))
 
